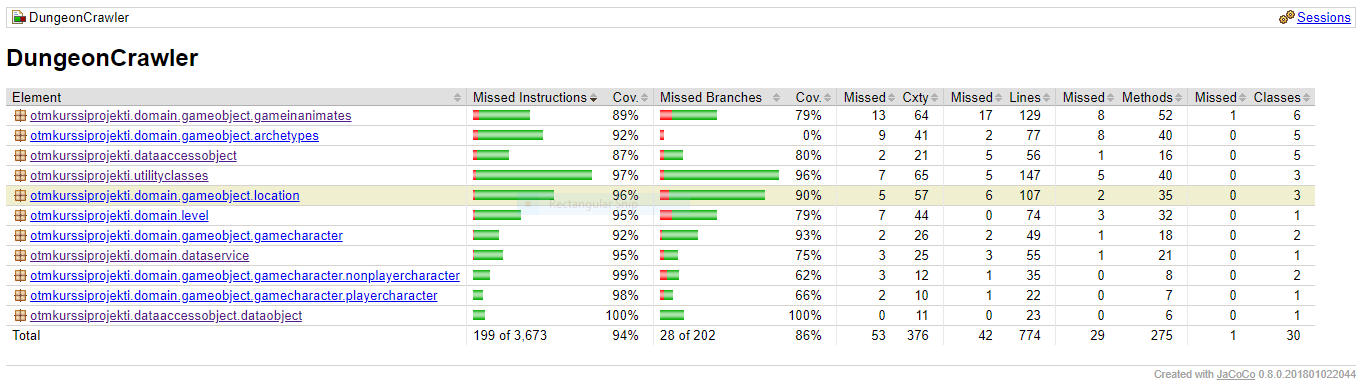
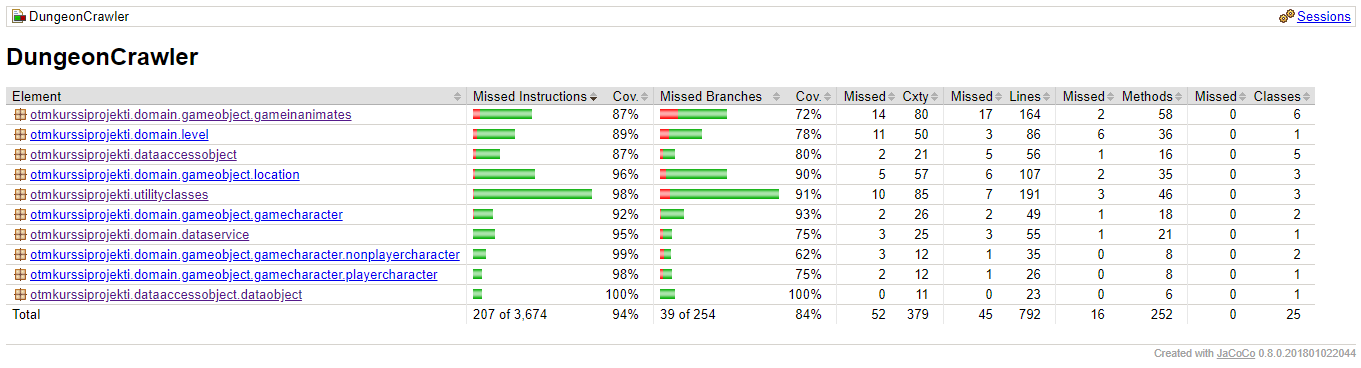
Päivitettiin testaus.md kuvineen. Korjattiin Jacoco-poisjättämiset pomiin.

diff --git a/dokumentaatio/testaus.md b/dokumentaatio/testaus.md
@@ -1,4 +1,4 @@
-# Testauksesta
+# Testauksesta
 Ohjelmaa on testattu automatisoidusta JUnitilla toteutetuin yksikkötesteillä, ja muutamalla integraatiotestillä. Ohjelman käyttöliittymää on lisäksi testattu käsipelin.  
 Aivan kaikilla luokilla ei ole omaa testiluokkaansa, (koska aika on rajalline resurssi), mutta kaikki luokat tulevat kuitenkin ainakin olennaisilta osin testatuksi viimeistään integraatiotestien kautta.
 
@@ -16,7 +16,7 @@ Levyoperaatioita tekeviä luokkia, eli daoja [testataan](/DungeonCrawler/src/tes
 [Apuluokkien testit](/DungeonCrawler/src/test/java/otmkurssiprojekti/utilityclasses) ovat hyvin suoraviivaisia yksikkötestejä, kuitenkin sillä huomautuksella, että kukin apuluokka käyttää jossain vaiheessa projektin muita luokkia - nämä luokat ovat kuitenkin tehty auttamaan nimenomaan tämän projektin luokkia joidenkin asioiden tekemisessä - joten integraatiotestejä ei päästä näissä karkuun.  
 
 ## Testikattavuus
-Kirjoitushetkellä projektilla on 202 testiä, ja niiden rivikattavuus on 94% ja haarakattavuus 86%. Testeissä ei oteta huomion käyttöliittymää eikä myöskään pelkkiä enumeita sisältävää [domain.gameobjects.archetypes](/DungeonCrawler/src/main/java/otmkurssiprojekti/domain/gameobject/archetypes)-pakkausta.
+Kirjoitushetkellä projektilla on 224 testiä, ja niiden rivikattavuus on 94% ja haarakattavuus 83% - haarakattavuutta tosin laskee se, että monen luokan equals-metodissa on paljon haaroja, ja näistä suuri osa on täysin triviaaleja, esim. null-testejä. Testeissä ei oteta huomion käyttöliittymää. Testauksessa ei oteta huomioon [domain.gameobjects.archetypes](/DungeonCrawler/src/main/java/otmkurssiprojekti/domain/gameobject/archetypes)-pakkausta, sillä se sisältää pelkkiä enumeja, joissa taas ei ole käytännössä lainkaan mielekästä testattavaa.
 ![Jacoco](/dokumentaatio/kuvat/jacoco_report.PNG)
 
 ## Järjestelmätestaus
